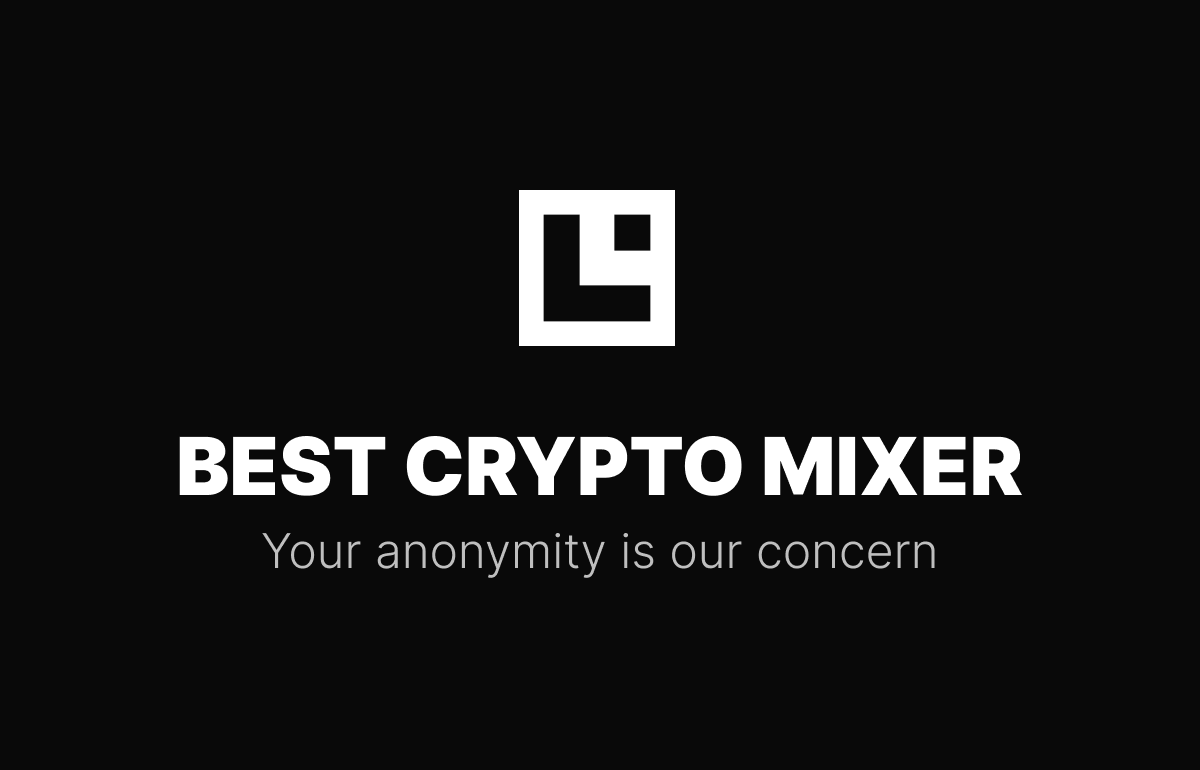
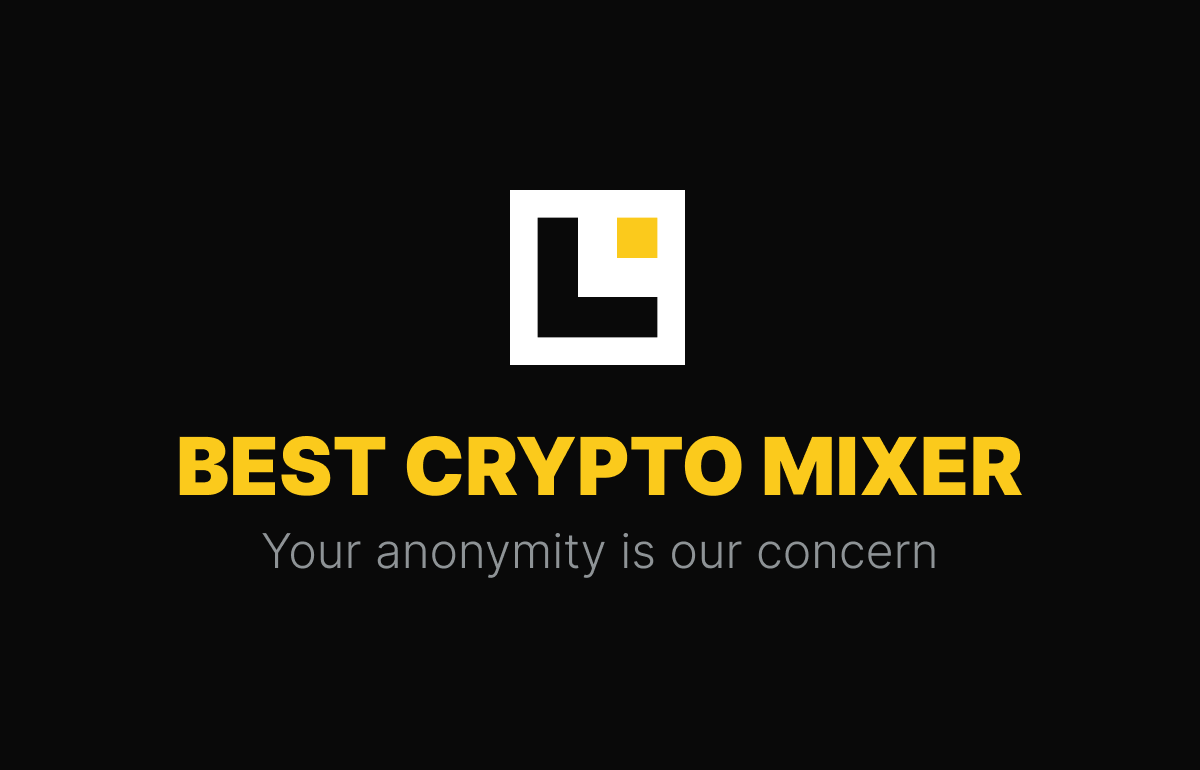
feat

diff --git a/src/components/Header/index.tsx b/src/components/Header/index.tsx
@@ -1,0 +1,57 @@
+import React from 'react';
+import { useRouter } from 'next/router';
+import logoIcon from 'assets/images/logo.svg';
+import Container from 'components/Container';
+import Link from 'next/link';
+import Image from 'next/image';
+import styles from './styles.module.css';
+
+const menuLinks = [
+  { href: '/', label: 'Mixer' },
+  { href: '/faq', label: 'FAQ' },
+];
+
+function Header() {
+  const router = useRouter();
+
+  return (
+    <header
+      id="header"
+      className={styles.root}
+    >
+      <Container>
+        <div className={styles.wrap}>
+          <div className={styles.logo}>
+            <Link href="/">
+              <Image
+                src={logoIcon}
+                alt="LEPRO"
+                width={36}
+                height={36}
+              />
+            </Link>
+
+            <p>
+              Your anonymity is our concern
+            </p>
+          </div>
+
+          <ul className={styles.menu}>
+            {menuLinks.map((link) => (
+              <li
+                key={link.label}
+                className={router.pathname === link.href ? styles.active : ''}
+              >
+                <Link href={link.href}>
+                  {link.label}
+                </Link>
+              </li>
+            ))}
+          </ul>
+        </div>
+      </Container>
+    </header>
+  );
+}
+
+export default Header;

diff --git a/src/components/Header/styles.module.css b/src/components/Header/styles.module.css
@@ -1,0 +1,53 @@
+.root {
+    background-color: var(--bg1);
+}
+
+.wrap {
+    display: flex;
+    align-items: center;
+    justify-content: space-between;
+    padding: calc(var(--uint) * 2) 0;
+}
+
+.logo {
+    display: flex;
+    align-items: center;
+    margin-right: calc(var(--uint) * 1);
+}
+
+.logo a {
+    display: flex;
+}
+
+.logo p {
+    font-size: var(--fs-small);
+    max-width: 140px;
+    margin-left: calc(var(--uint) * 3);
+    color: var(--grey);
+}
+
+.menu {
+    display: flex;
+    background-color: var(--bg);
+    border: calc(var(--uint) * 0.5) solid transparent;
+    border-radius: 100px;
+}
+
+.menu > li > a {
+    display: block;
+    padding: var(--uint) calc(var(--uint) * 2);
+    border-radius: 100px;
+    color: var(--white);
+}
+
+.menu > li > a:hover {
+    background-color: var(--bg1);
+}
+
+.menu > li:not(:last-of-type){
+    margin-right: calc(var(--uint) * 0.5);
+}
+
+.active > a {
+    background-color: var(--bg1);
+}

diff --git a/src/pages/_app.tsx b/src/pages/_app.tsx
@@ -1,7 +1,9 @@
 import React from 'react';
 import 'assets/styles/normalize.css';
+import 'assets/styles/fonts.css';
+import 'assets/styles/theme.css';
 import type { AppProps } from 'next/app';
-import { Layout } from '@components/index';
+import { Layout, Header } from '@components/index';
 
 export default function App({ Component, pageProps }: AppProps) {
   return (
@@ -10,6 +12,8 @@ export default function App({ Component, pageProps }: AppProps) {
       description="LEPRO MIXER - BEST CRYPTO MIXER"
       keywords="LEPRO, CRYPTO MIXER, BETST BITCOIN MIXER"
     >
+      <Header />
+
       <Component {...pageProps} />
     </Layout>
   );

diff --git a/src/assets/styles/theme.css b/src/assets/styles/theme.css
@@ -1,0 +1,24 @@
+:root {
+    --font-family: "Inter, sans-serif";
+
+    --fs: 16px;
+    --fs-small: 0.75rem;
+
+    --white: #fff;
+    --grey: #8e9396;
+
+    --primary: #fbca1c;
+    --primary-hover: #fcd64e;
+
+    --bg: #020201;
+    --bg1: #161616;
+
+    --uint: 8px;
+}
+
+body {
+    font-size: var(--fs);
+    font-family: "Inter";
+    background-color: var(--bg);
+    color: var(--white);
+}

diff --git a/src/components/index.ts b/src/components/index.ts
@@ -1,9 +1,11 @@
 import Layout from './Layout';
 import Container from './Container';
 import Link from './Link';
+import Header from './Header';
 
 export {
   Layout,
   Container,
   Link,
+  Header,
 };

diff --git a/src/assets/styles/normalize.css b/src/assets/styles/normalize.css
@@ -95,6 +95,10 @@ textarea {
   overflow: auto;
 }
 
+a {
+  transition: 0.3s all ease;
+}
+
 * {
   margin: 0;
   padding: 0;
